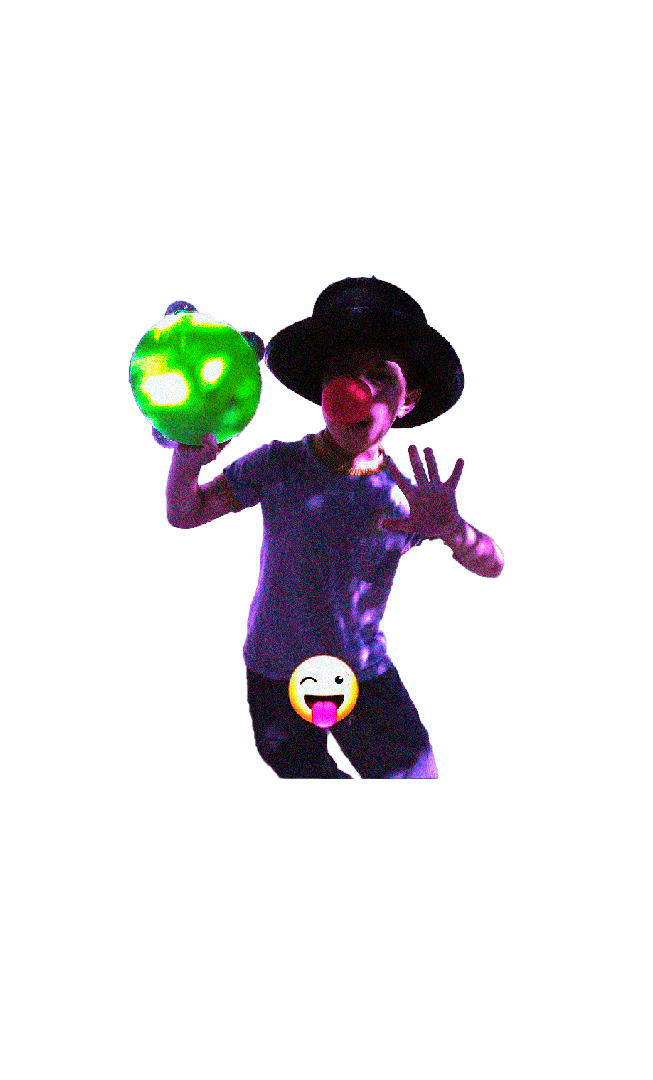
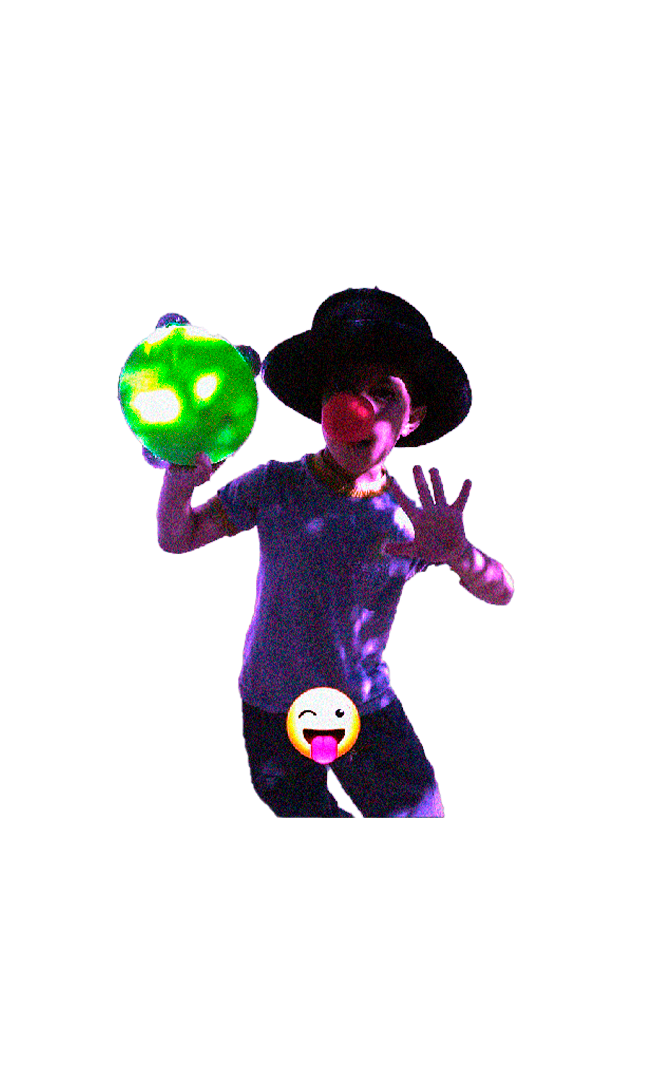
Update third about portrait to latest image

Changed region(s): [[0.1838, 0.2444, 0.7963, 0.7639]]

diff --git a/about.js b/about.js
@@ -7,7 +7,7 @@
   const photos = [
     { src: './assets/sobremi-personaje.webp', alt: 'Retrato de Ian delante de una ventana gráfica retro' },
     { src: './assets/sobremi-foto-2.png?v=framed-2', alt: 'Foto de Ian con efecto rosa y glitch' },
-    { src: './assets/sobremi-foto-3.png?v=framed-2', alt: 'Foto de Ian con sombrero y una luz verde' }
+    { src: './assets/sobremi-foto-3.png?v=framed-3', alt: 'Foto de Ian con sombrero y una luz verde' }
   ];
   let index = 0;
   photos.slice(1).forEach(item => { const image = new Image(); image.src = item.src; });

diff --git a/inicio.html b/inicio.html
@@ -69,7 +69,7 @@
         </div>
       </section>
     </main>
-      <script src="./about.js?v=20261022-framed-2" defer></script>
+      <script src="./about.js?v=20261022-framed-3" defer></script>
       <script src="./i18n.js?v=support-ticket-chat-1" defer></script>
       <script src="./effects.js?v=inline-editor-news-1" defer></script>
   </body>
